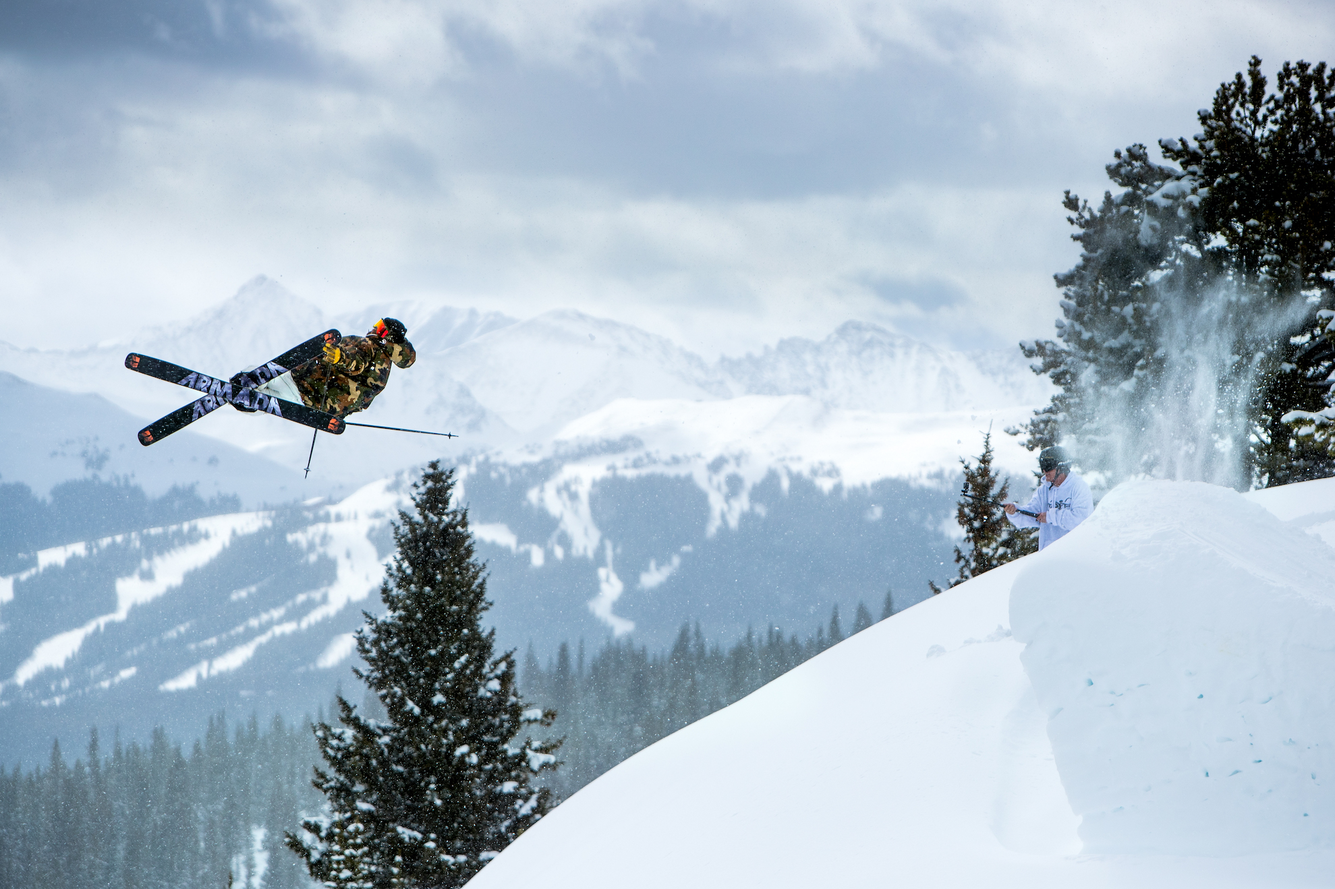
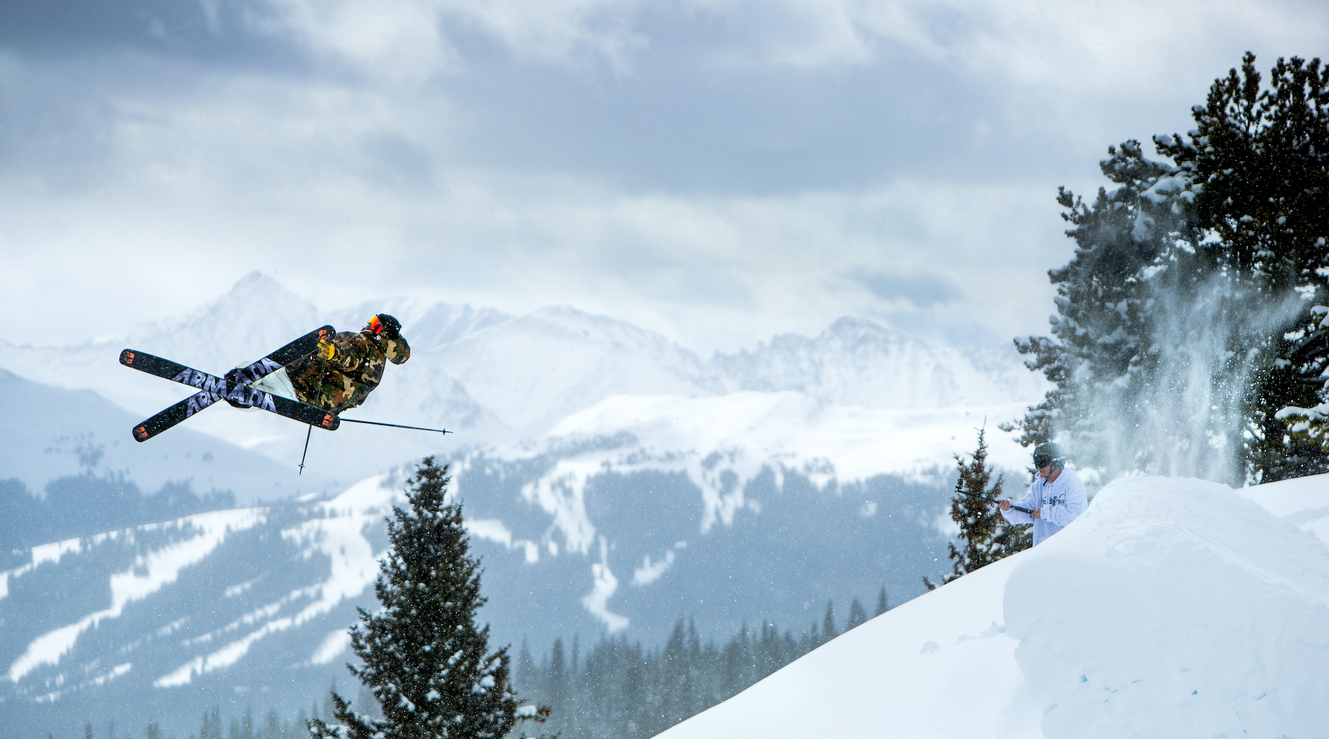
progress on landing

diff --git a/src/pages/landing/landing.js b/src/pages/landing/landing.js
@@ -1,12 +1,12 @@
-import React from 'react'
-import landingPhoto 
-
+import React from "react";
+import styles from "./landing.module.css";
+import landingImage from "../../assets/landingPhoto.jpg";
 const landing = () => {
-    return (
-        <div>
-            
-        </div>
-    )
-}
+	return (
+		<div className={styles.landing}>
+			<img src={landingImage} alt='skier jumping' className={styles.photo} />
+		</div>
+	);
+};
 
-export default landing
+export default landing;

diff --git a/src/App.js b/src/App.js
@@ -1,12 +1,14 @@
 import React, { useState } from "react";
 import Nav from "./components/Nav/Nav";
 import styles from "./App.module.css";
+import Landing from "./pages/landing/landing";
 function App() {
 	const [cartQuantity, setCartQuantity] = useState(0);
 
 	return (
 		<div className={styles.app}>
 			<Nav cartQuantity={cartQuantity} />
+			<Landing />
 		</div>
 	);
 }

diff --git a/src/pages/landing/landing.module.css b/src/pages/landing/landing.module.css
@@ -1,0 +1,4 @@
+.photo {
+	height: 100vh;
+	object-fit: cover;
+}
